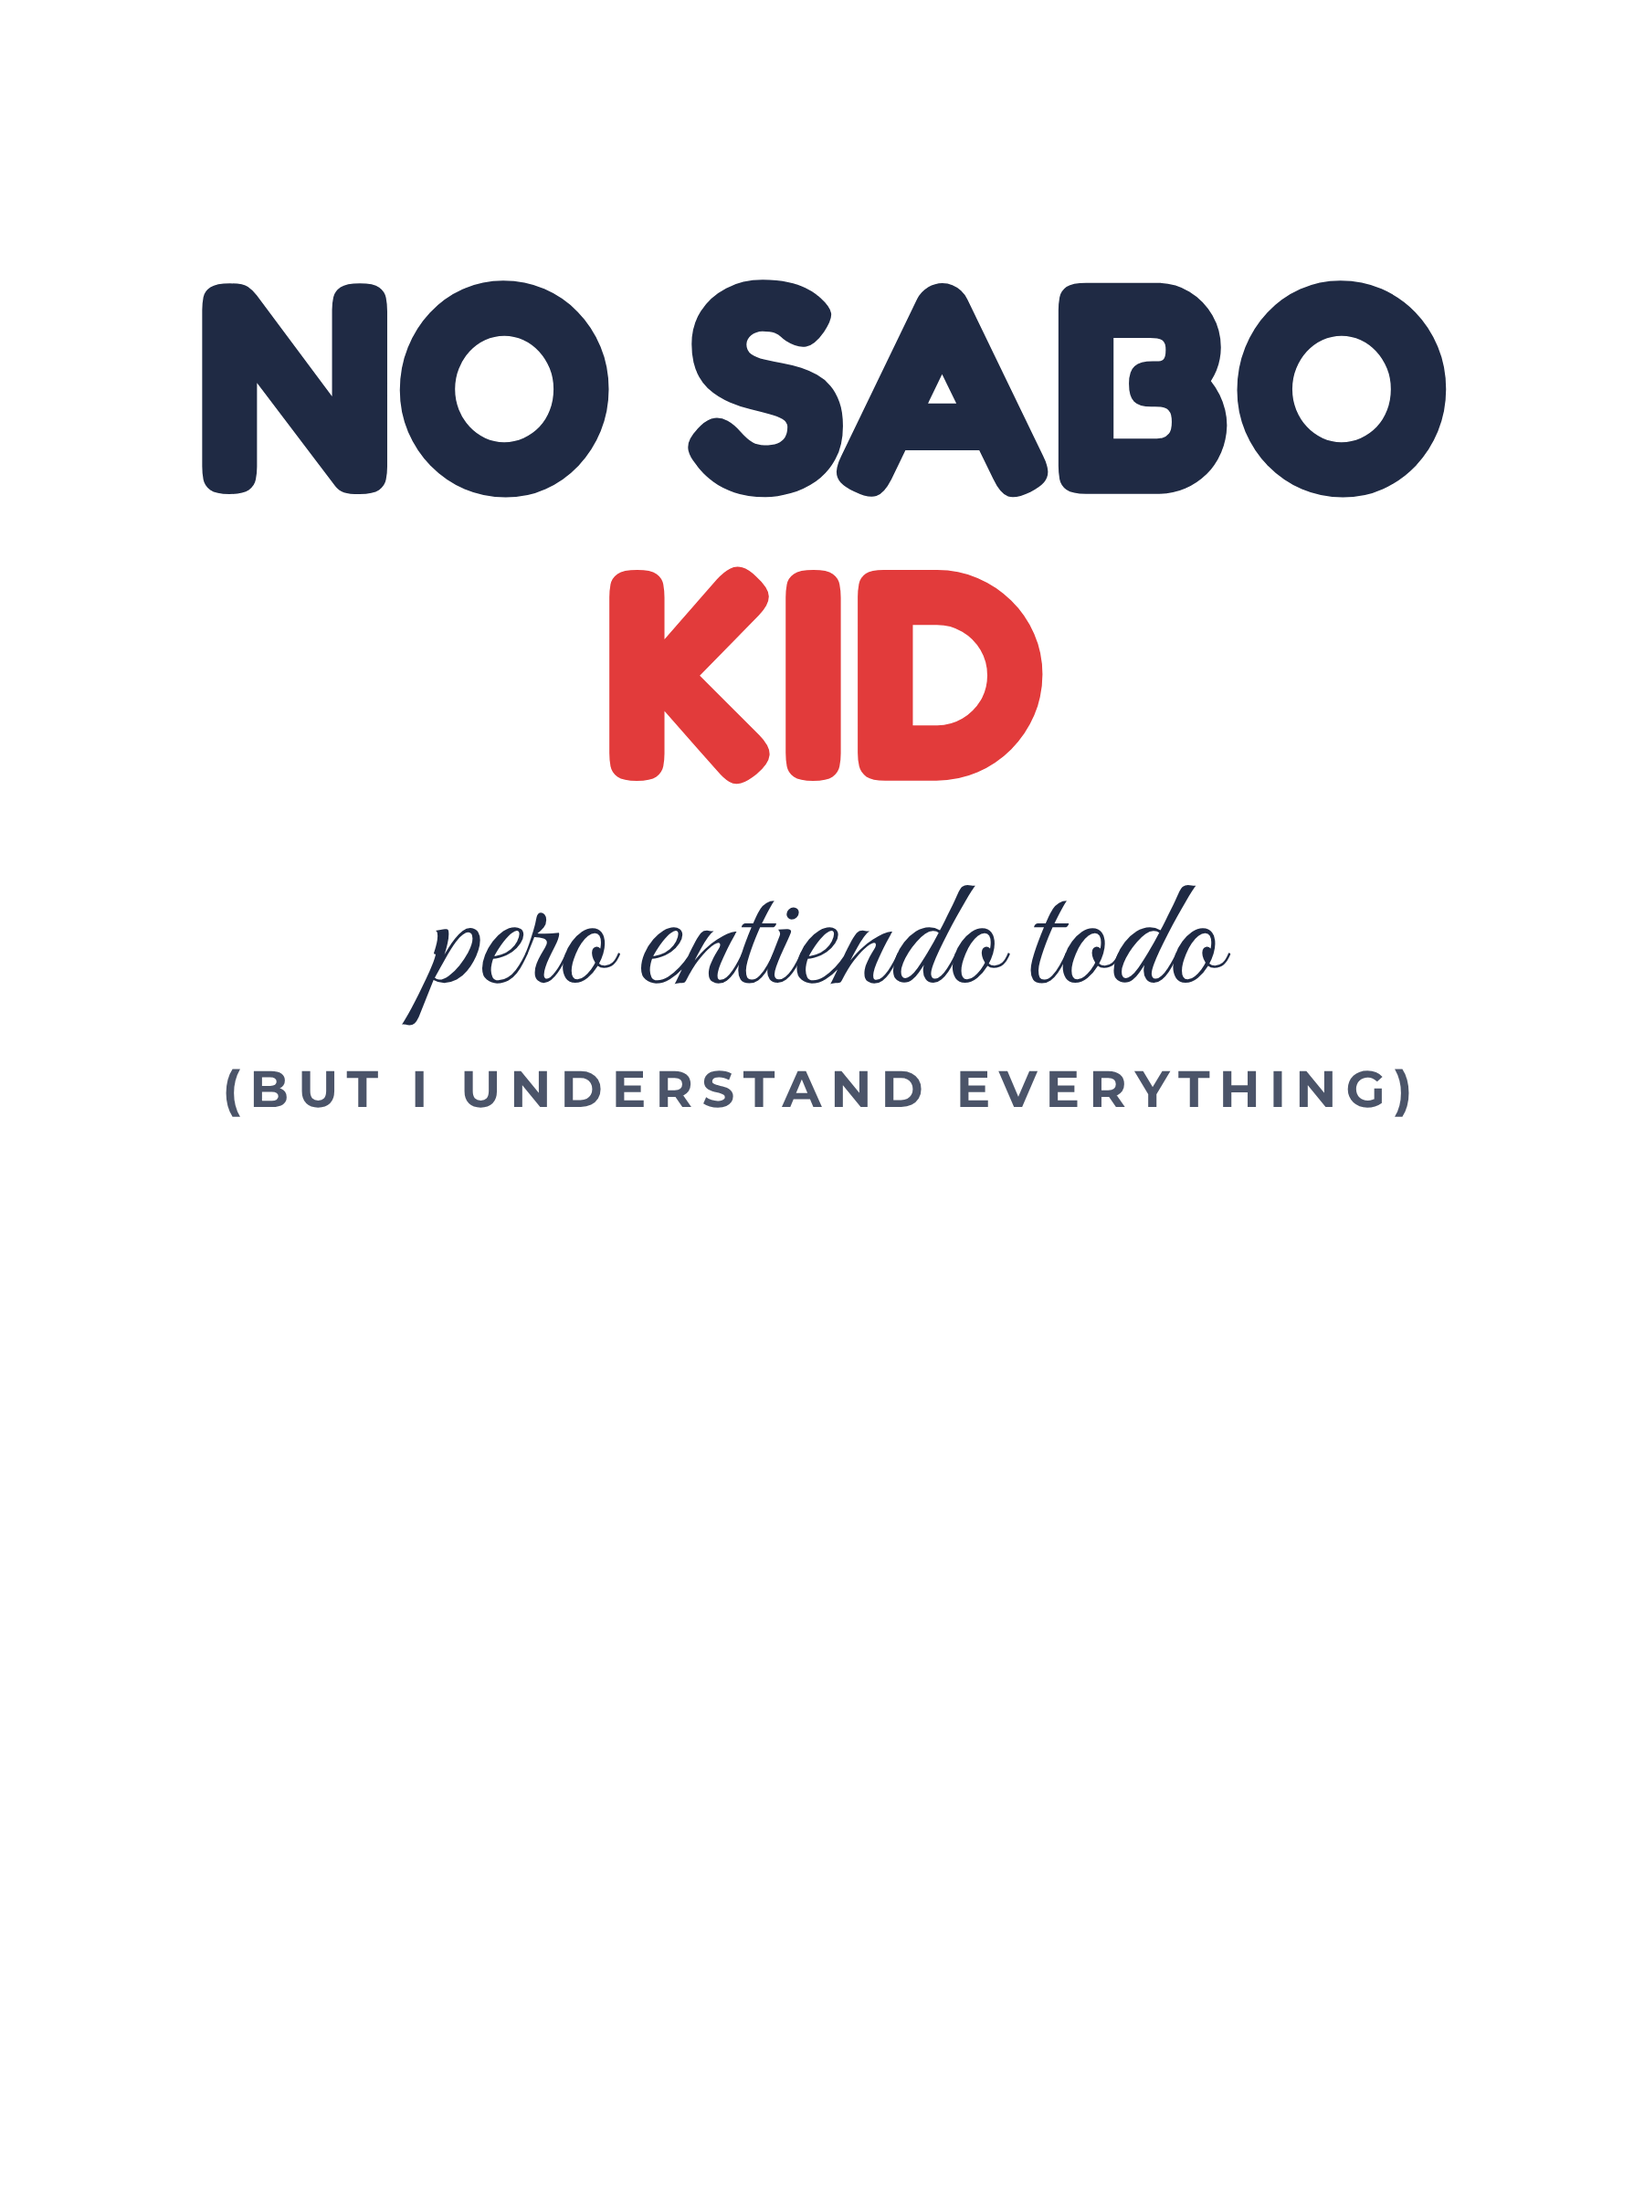
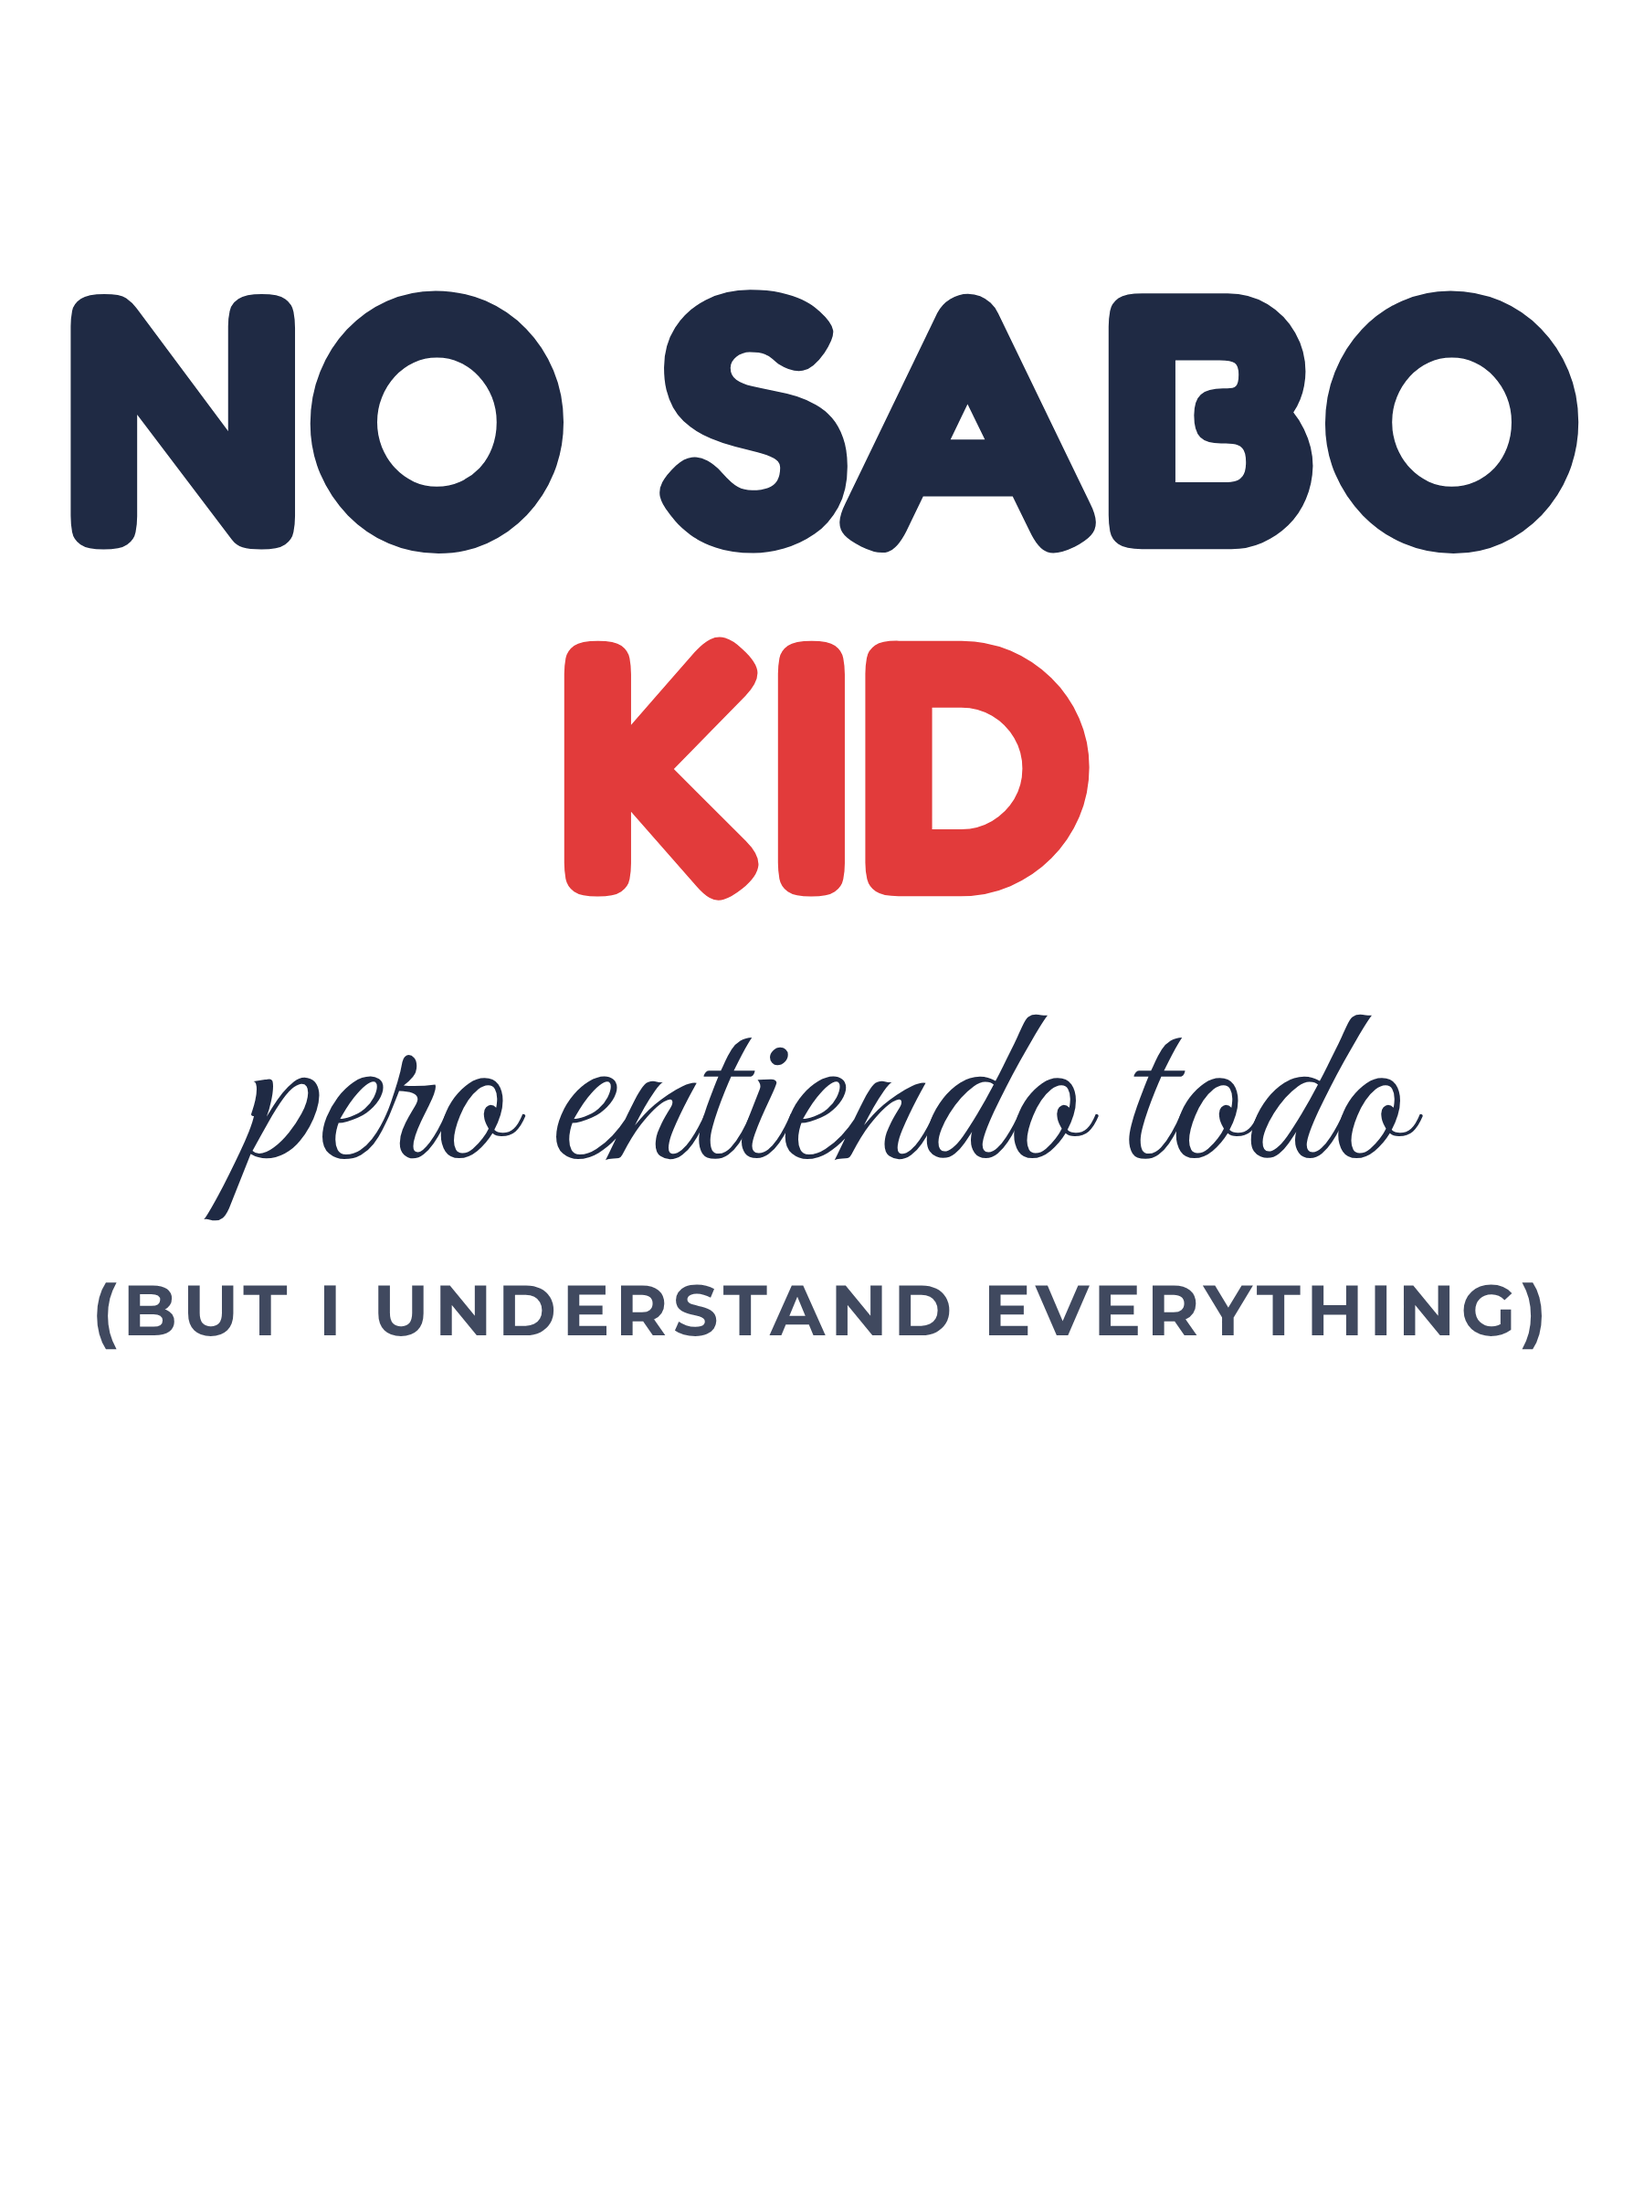
No Sabo tee: larger subtitle
Claude-Session: https://claude.ai/code/session_016J2nU7A2YAX41gT6f3cs1D

Changed region(s): [[0.1244, 0.125, 0.9644, 0.5625], [0.0622, 0.5625, 0.9333, 0.625], [0.0311, 0.125, 0.3733, 0.25]]

diff --git a/docs/unity-keepsakes/design-scripts/batch5/designs.py b/docs/unity-keepsakes/design-scripts/batch5/designs.py
@@ -67,8 +67,8 @@ orn('orn_pet','radial-gradient(circle,#ffffff 0%,#f3ebe2 100%)',f'''<div style="
 for mode in ('light','dark'):
     t1='#1f2a44' if mode=='light' else '#ffffff'; acc='#e23b3b' if mode=='light' else '#f5c518'
     page(f'tee_nosabo_{mode}',1800,2400,f'''<div style="position:absolute;left:0;right:0;top:260px;text-align:center">
-<div style="font-family:Fredoka;font-weight:700;font-size:330px;line-height:.95;color:{t1}">NO SABO</div>
-<div style="font-family:Fredoka;font-weight:700;font-size:330px;line-height:.95;color:{acc}">KID</div>
-<div style="font-family:'Great Vibes';font-size:170px;line-height:1.3;color:{t1};margin-top:40px">pero entiendo todo</div>
-<div style="font-family:Montserrat;font-weight:700;font-size:56px;letter-spacing:10px;color:{t1};opacity:.8;margin-top:10px">(BUT I UNDERSTAND EVERYTHING)</div></div>''',transparent=True)
+<div style="font-family:Fredoka;font-weight:700;font-size:400px;line-height:.95;color:{t1}">NO SABO</div>
+<div style="font-family:Fredoka;font-weight:700;font-size:400px;line-height:.95;color:{acc}">KID</div>
+<div style="font-family:'Great Vibes';font-size:250px;line-height:1.3;color:{t1};margin-top:30px">pero entiendo todo</div>
+<div style="font-family:Montserrat;font-weight:700;font-size:78px;letter-spacing:6px;color:{t1};opacity:.85;margin-top:10px">(BUT I UNDERSTAND EVERYTHING)</div></div>''',transparent=True)
 json.dump(J,open(OUT+'/jobs.json','w')); print(len(J),'pages')
